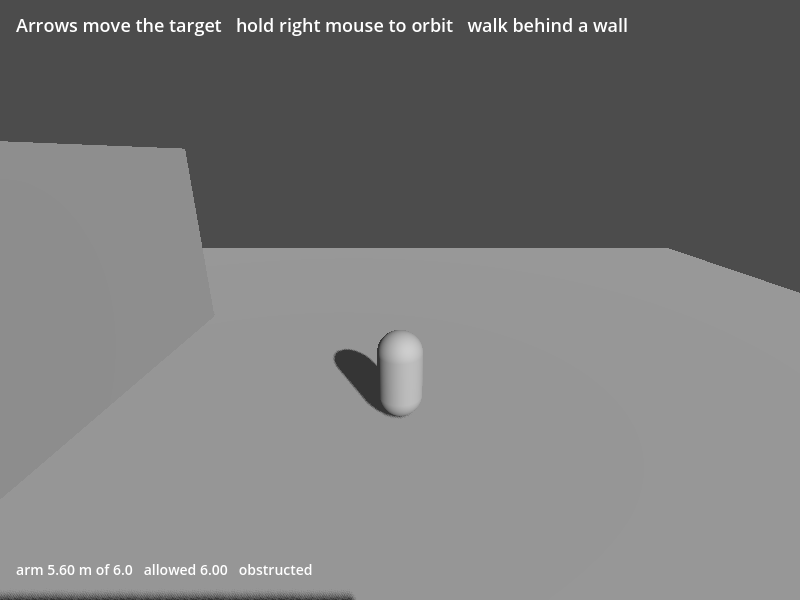
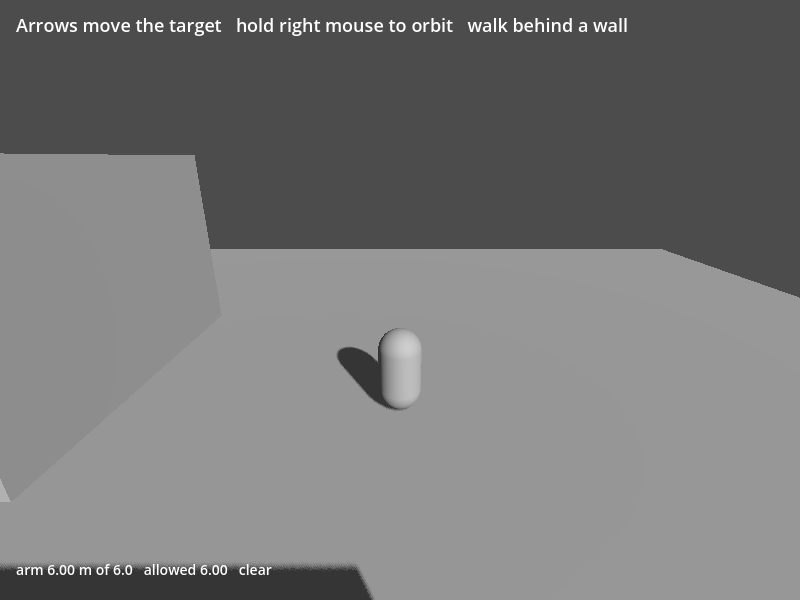
spring-arm-camera: do not believe the arm before it has swept
Every run opened with the camera springing outwards for about a second, and the
HUD saying "obstructed" while reporting the full length allowed.

SpringArm3D.get_hit_length() returns 0 until the arm has actually swept, and the
first physics frame is before that. Confirmed against a bare arm in an otherwise
empty scene: frame 1 answers 0.000, every frame after answers 6.000. It means
"not asked yet", not "blocked at zero metres" — but the driver could not tell
the difference, so the instant pull-in rate took the camera to MIN_LENGTH and
then eased it back out over the next second. Nothing errored, nothing warned,
and it read as a deliberate zoom-out on spawn.

The demo now assumes clear until the arm has answered once. The opposite guess
is worse: starting against a wall would put the camera through it, where this
way the worst case is a single frame too far out that the instant pull-in
corrects immediately.

Worth having in a demo about spring arms rather than just fixing quietly, so it
is in How It Works too. The suite watches the camera over the frames after the
scene loads and fails if it ever sits shorter than the arm allows — checked by
reverting the fix, where it reports the camera at exactly MIN_LENGTH.

The gallery frame for this demo is recaptured: it read "arm 5.60 of 6.0,
obstructed" against "allowed 6.00", and now reads 6.00 and clear.

diff --git a/spring-arm-camera/README.md b/spring-arm-camera/README.md
@@ -40,6 +40,17 @@ still puts the camera's near plane inside the wall.
 the near plane has somewhere to be. Without it the camera rests exactly on the
 surface and clips through.
 
+**The first frame's answer is not an answer.** `get_hit_length()` returns `0`
+until the arm has actually swept, and the first physics frame is before that —
+an arm alone in an empty scene reports `0` too. It means "not asked yet", not
+"blocked at zero metres", and a driver that cannot tell the difference takes the
+camera straight to its minimum and then eases it out over the following second.
+Nothing errors and nothing warns, so it reads as a deliberate zoom-out on spawn,
+and it happens on every single run. The demo assumes clear until the arm has
+answered once; the opposite guess is worse, because starting against a wall
+would put the camera through it, and this way the worst case is one frame too
+far out that the instant pull-in fixes on the next.
+
 **The character has to be excluded by hand.** The sweep starts at head height,
 right beside the collider it is supposed to be looking past, so pitch the camera
 down and the first thing it finds is the player: the arm collapses and the view
